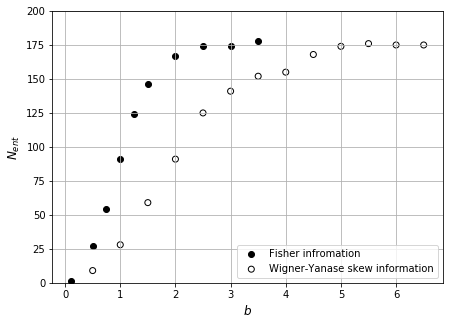
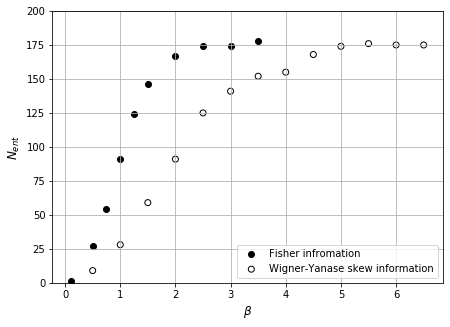
Fix 'b' to 'beta' in figures and captions

diff --git a/manuscript.tex b/manuscript.tex
@@ -396,7 +396,7 @@ We compare these informations in the following Section~\ref{sec:4}.
 \begin{figure}
 	\includegraphics[width=0.95\linewidth]{zigzag_entangled_spins_by_temp}
 	\caption{
-		The dependence of the number $N_\mathrm{ent}$ of the entangled spins on the parameter $b$ (the inverse temperature) for zigzag chains consisting of six spins.
+		The dependence of the number $N_\mathrm{ent}$ of the entangled spins on the parameter $\beta$ (the inverse temperature) for zigzag chains consisting of six spins.
 	}
 	\label{fig:3}
 \end{figure}
